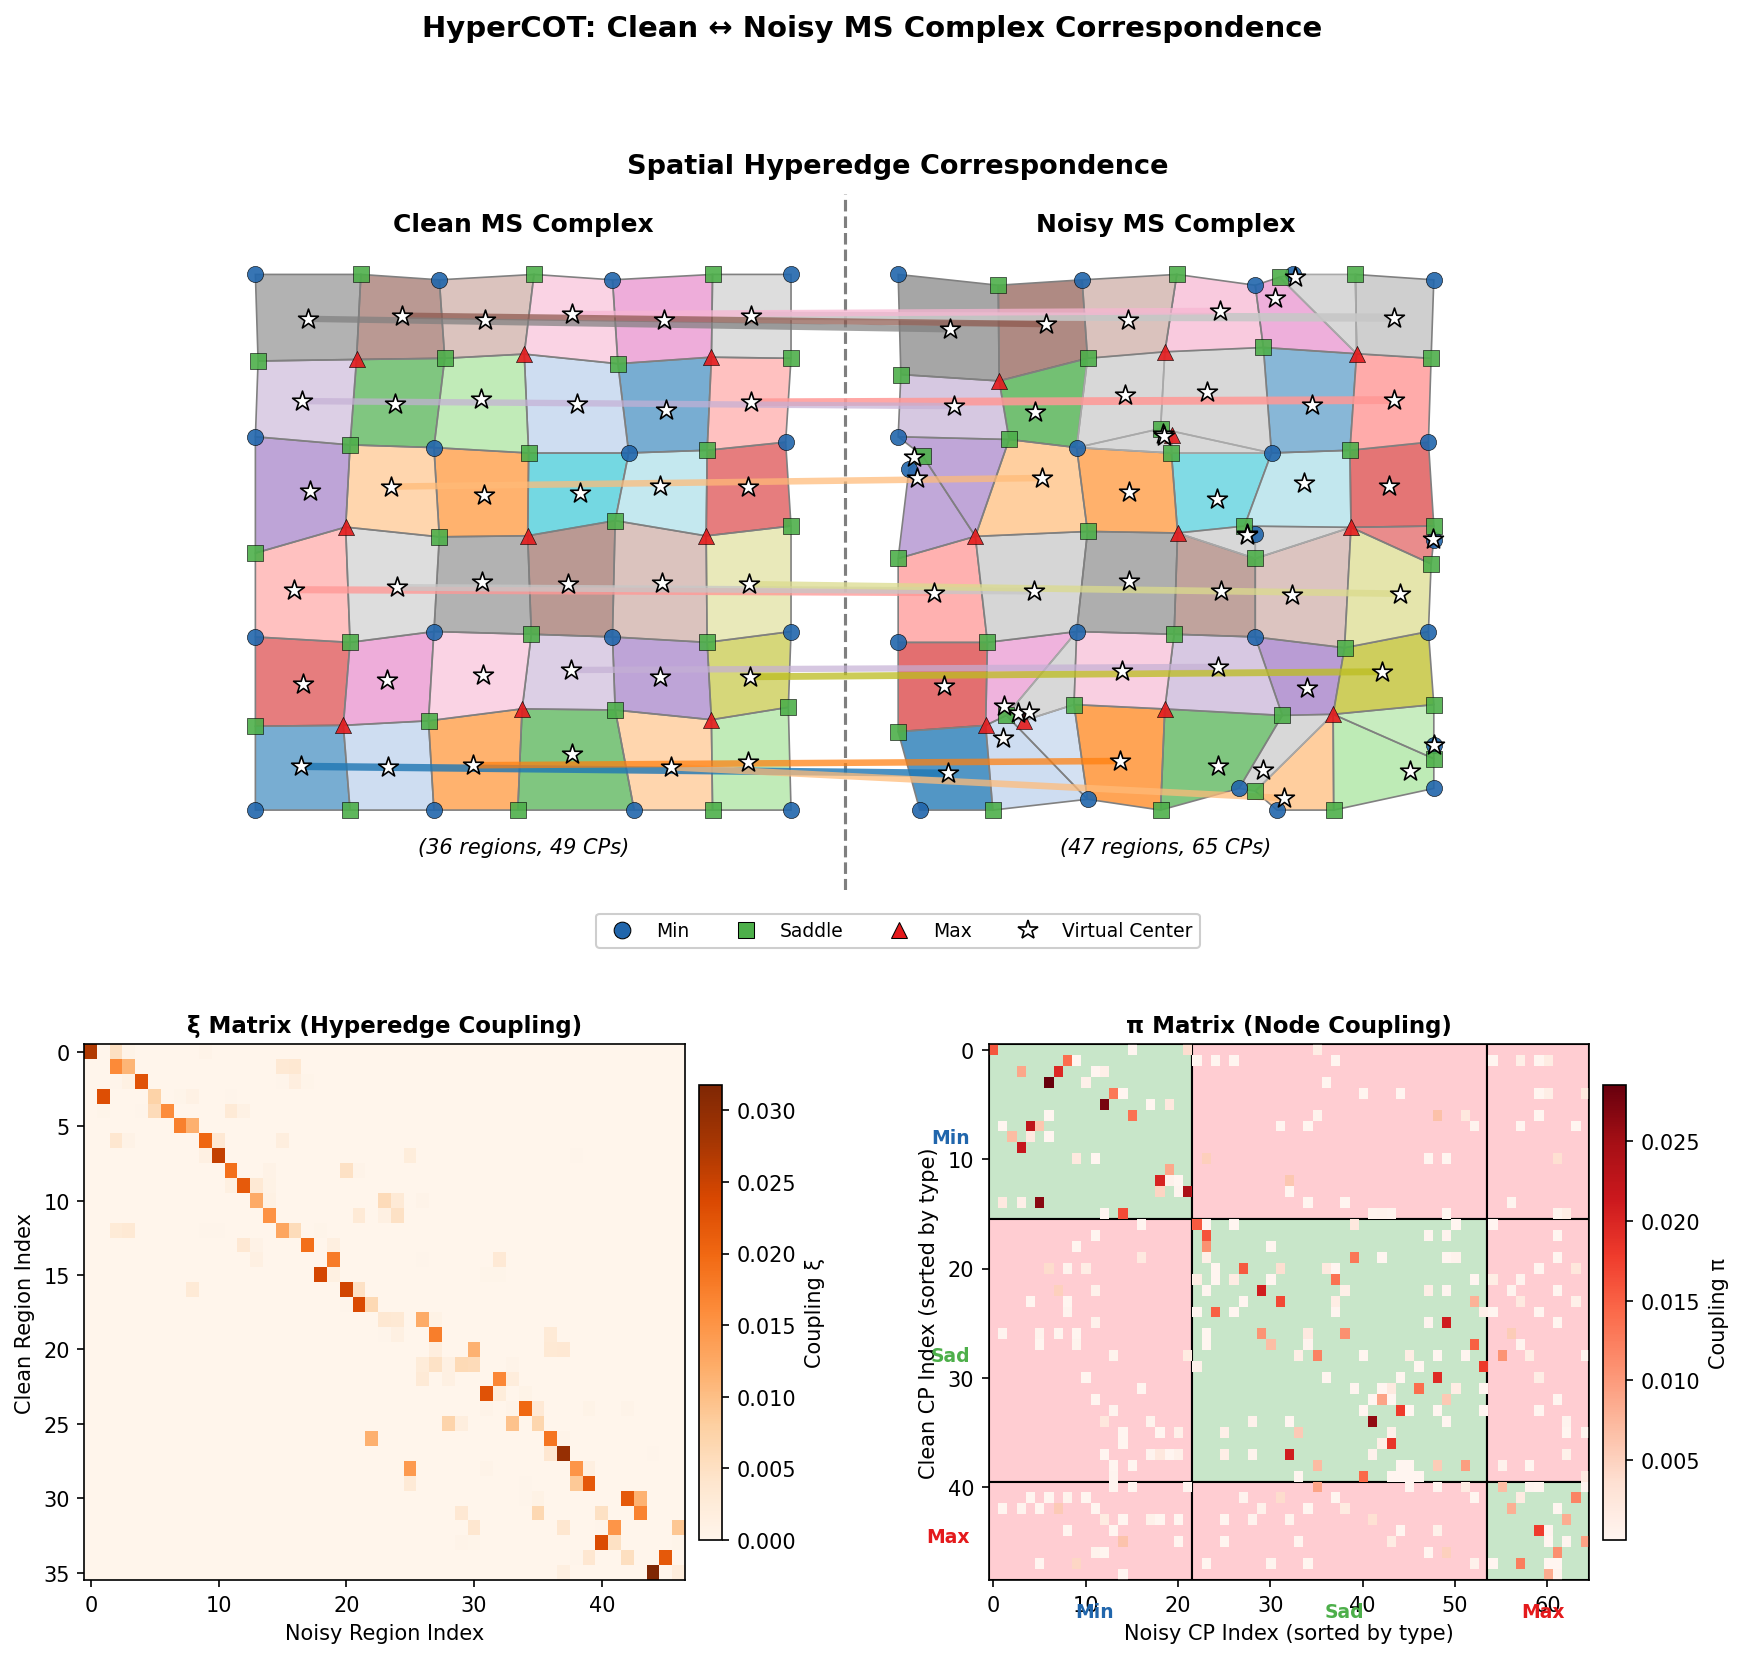
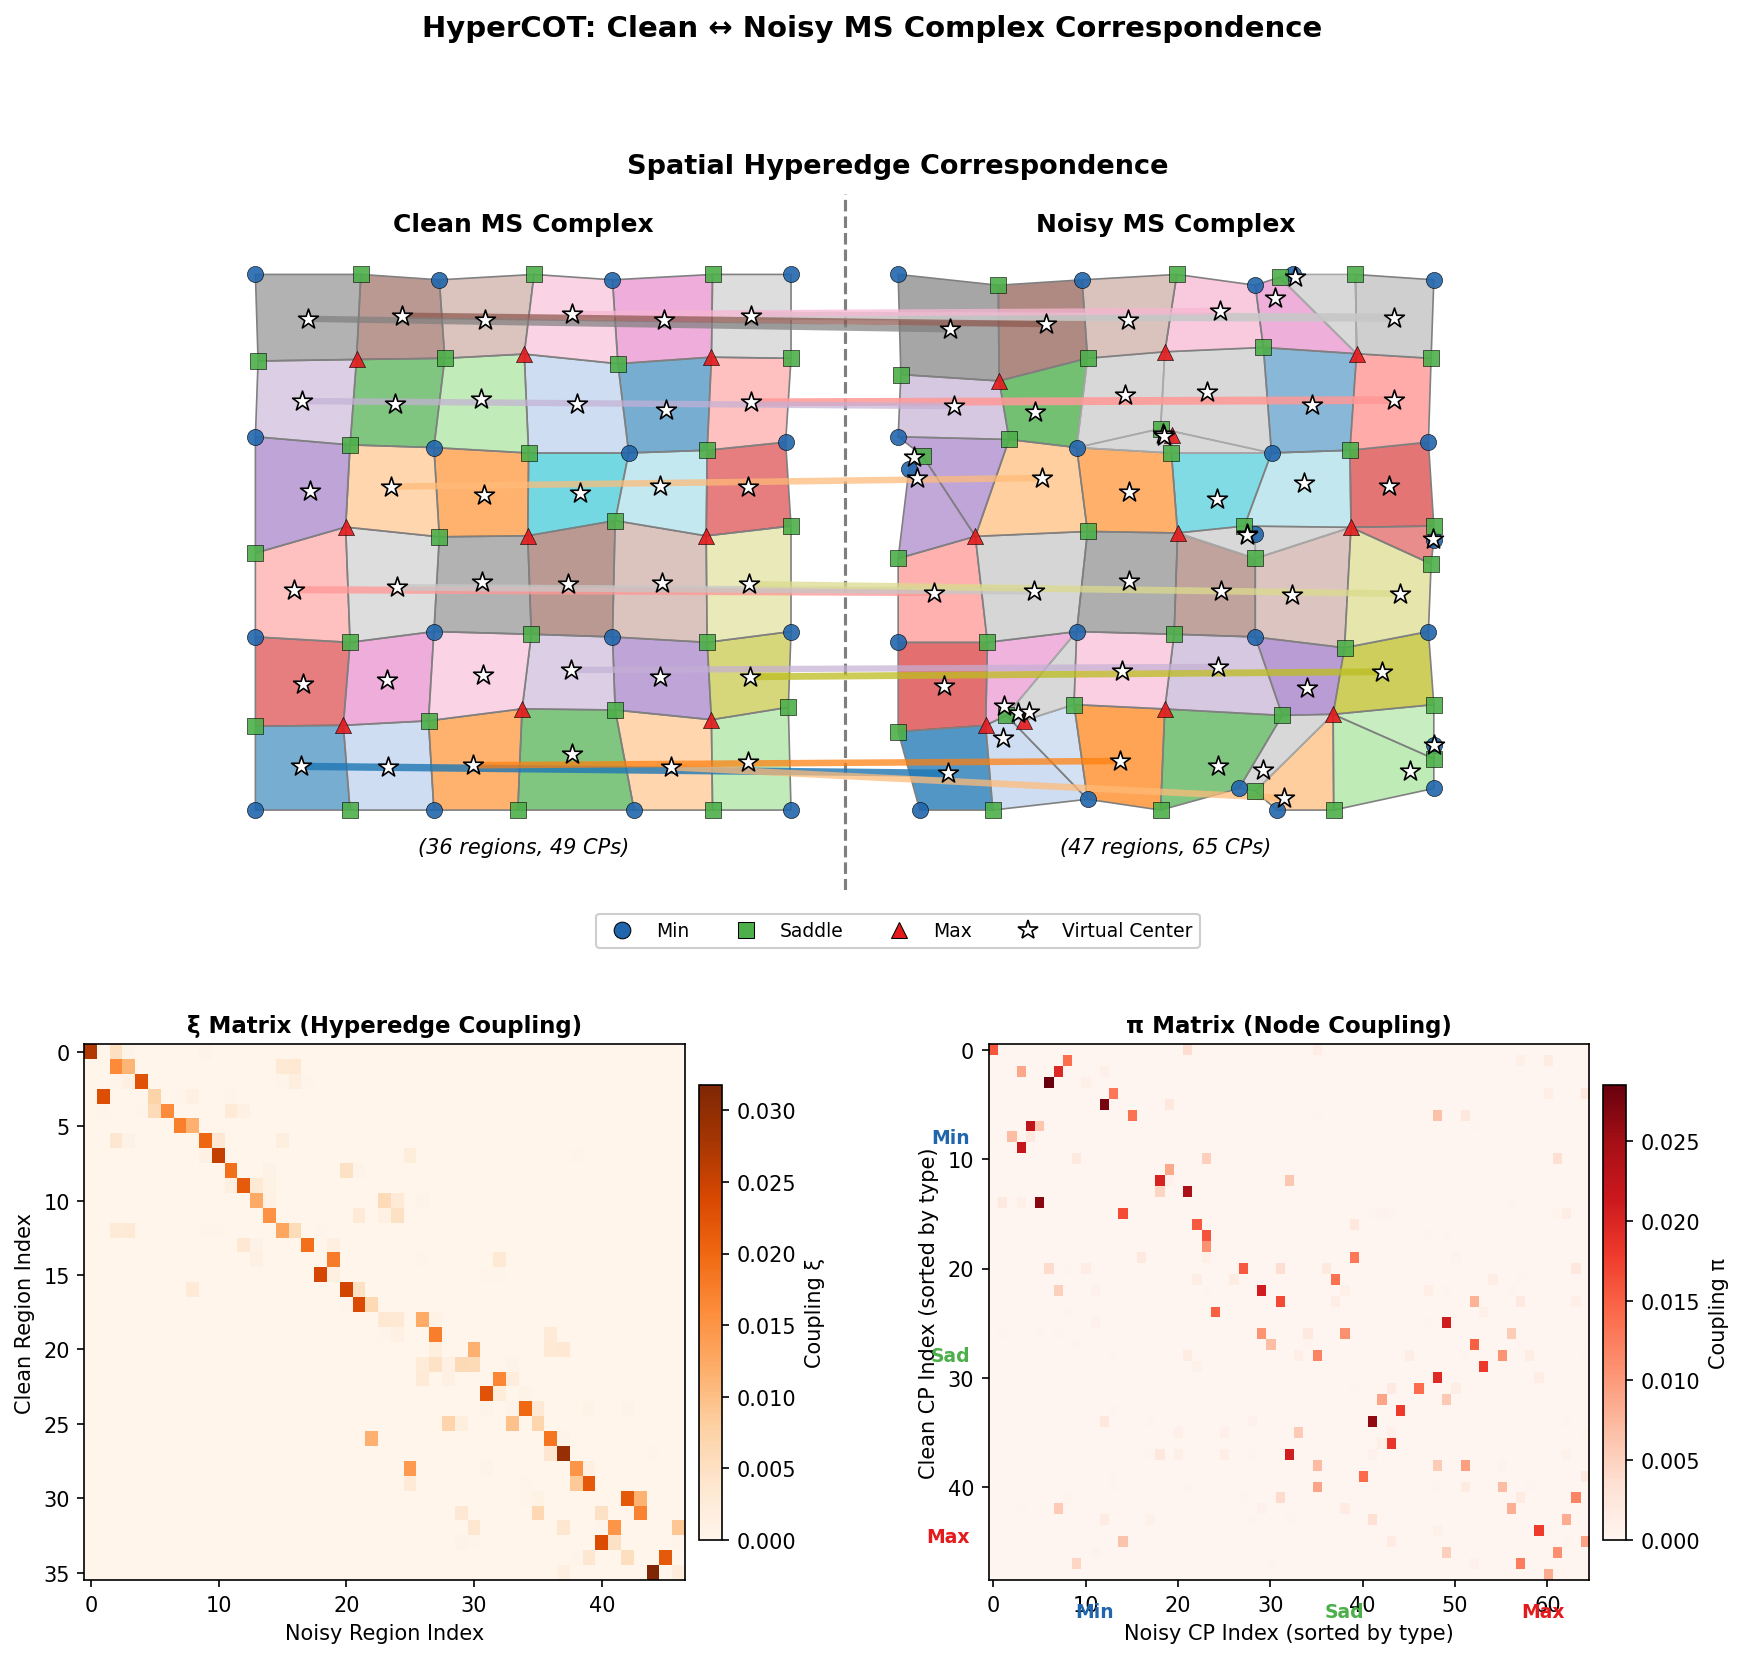
Fix π matrix visualization and add epsilon to README formulas
- Remove NaN masking that caused white dots in π matrix
- Add entropy regularization term (ε·H) to optimization formulas in README

🤖 Generated with [Claude Code](https://claude.com/claude-code)

Changed region(s): [[0.5577, 0.6152, 0.9294, 0.9536]]

diff --git a/visualize_hypercot_final.py b/visualize_hypercot_final.py
@@ -258,10 +258,8 @@ def visualize_hypercot(save_path=None):
                             facecolor=color, edgecolor='black', linewidth=1.0, zorder=0)
             ax_pi.add_patch(rect)
 
-    # Plot the sorted coupling matrix with transparency for low values
-    pi_plot = pi_sorted.copy()
-    pi_plot[pi_plot < 1e-6] = np.nan  # Make near-zero values transparent
-    im_pi = ax_pi.imshow(pi_plot, aspect='auto', cmap='Reds', zorder=1)
+    # Plot the sorted coupling matrix
+    im_pi = ax_pi.imshow(pi_sorted, aspect='auto', cmap='Reds', zorder=1)
     cbar_pi = plt.colorbar(im_pi, ax=ax_pi, shrink=0.85, pad=0.02)
     cbar_pi.set_label('Coupling π', fontsize=10)
 

diff --git a/README.md b/README.md
@@ -272,11 +272,14 @@ Uses **POT library's** `ot.coot.co_optimal_transport()` for Co-Optimal Transport
 Initialize: π = μ₁ ⊗ μ₂,  ξ = ν₁ ⊗ ν₂
 
 Repeat until convergence:
-    1. Fix ξ, update π via Sinkhorn on cost:
-       C_π[v,v'] = Σ_{e,e'} |ω₁(v,e) - ω₂(v',e')|² · ξ(e,e') + α · M_samp[v,v']
+    1. Fix ξ, update π via Sinkhorn:
+       min_π  Σ_{v,v'} C_π[v,v'] · π(v,v') + ε · H(π)
+       where C_π[v,v'] = Σ_{e,e'} |ω₁(v,e) - ω₂(v',e')|² · ξ(e,e') + α · M_samp[v,v']
+       and H(π) = Σ_{v,v'} π(v,v') · log(π(v,v'))  (entropy regularization)
 
-    2. Fix π, update ξ via Sinkhorn on cost:
-       C_ξ[e,e'] = Σ_{v,v'} |ω₁(v,e) - ω₂(v',e')|² · π(v,v')
+    2. Fix π, update ξ via Sinkhorn:
+       min_ξ  Σ_{e,e'} C_ξ[e,e'] · ξ(e,e') + ε · H(ξ)
+       where C_ξ[e,e'] = Σ_{v,v'} |ω₁(v,e) - ω₂(v',e')|² · π(v,v')
 ```
 
 **Key Parameters:**
